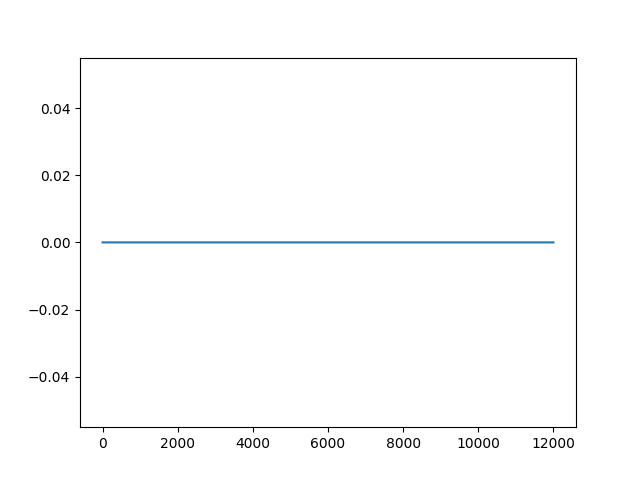
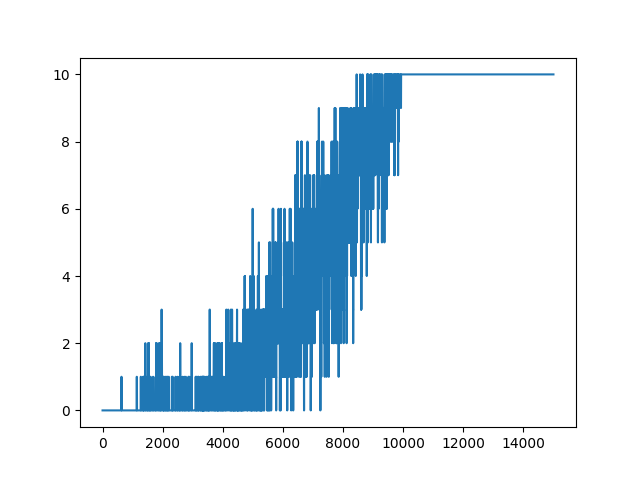
wiadomo co robić

diff --git a/WSI/zadanie6/q_learning.py b/WSI/zadanie6/q_learning.py
@@ -9,7 +9,7 @@ def run(
     env = gym.make(
         "FrozenLake-v1",
         map_name="8x8",
-        is_slippery=False,
+        is_slippery=True,
         render_mode="human" if render else None,
     )
 
@@ -23,8 +23,9 @@ def run(
     rng = np.random.default_rng()
     reward_per_episode = np.zeros(episodes)
 
-    for i in range(episodes):
-        observation, _ = env.reset(seed=1)
+    for episode in range(episodes):
+        observation, _ = env.reset(seed=seed)
+
         terminated = False
         truncated = False
 
@@ -54,10 +55,10 @@ def run(
             learning_rate_a = 0.0001
 
         if reward == 1:
-            reward_per_episode[i] = 1
+            reward_per_episode[episode] = 1
 
         if verbose:
-            print(i)
+            print(episode)
 
     env.close()
     if verbose:

diff --git a/WSI/zadanie6/tools.py b/WSI/zadanie6/tools.py
@@ -4,6 +4,7 @@ import numpy as np
 
 
 def save_plot(path, size, rewards):
+    plt.cla()
     episodes = len(rewards)
     sum_rewards = np.zeros(episodes)
     for t in range(episodes):
